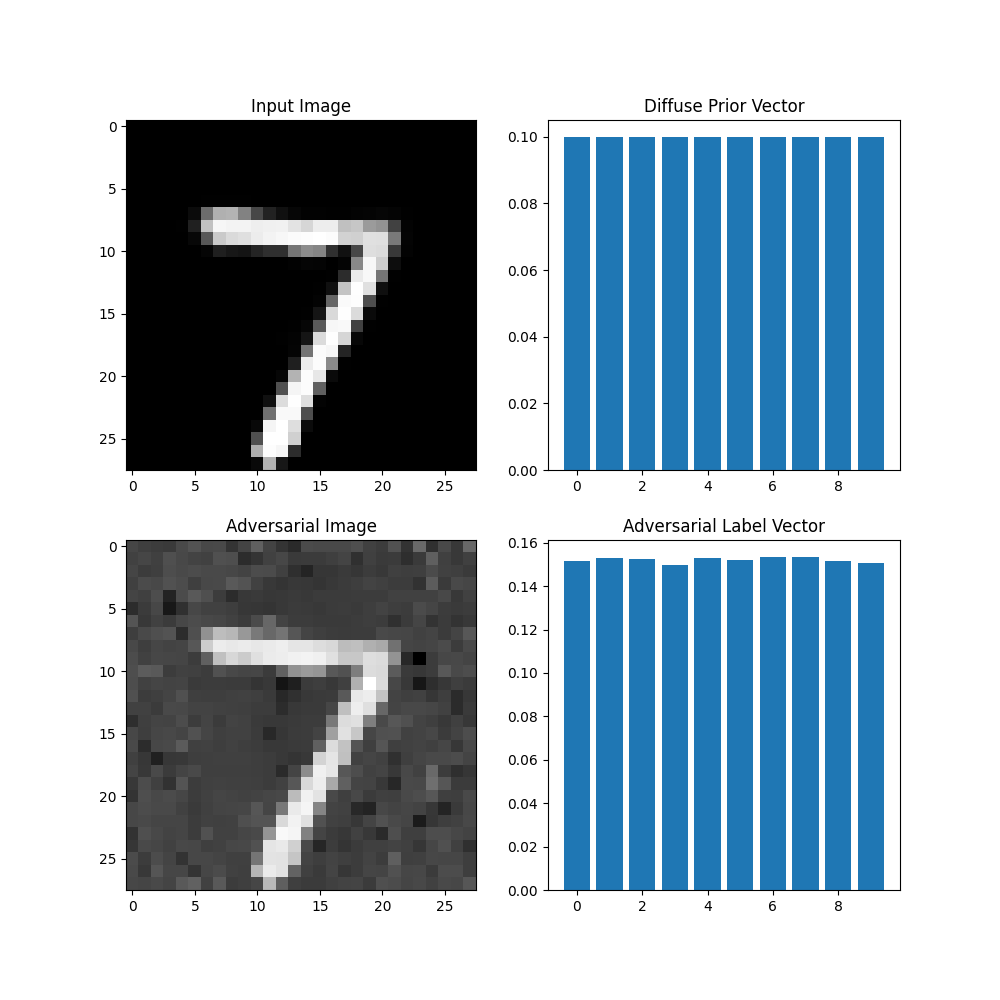
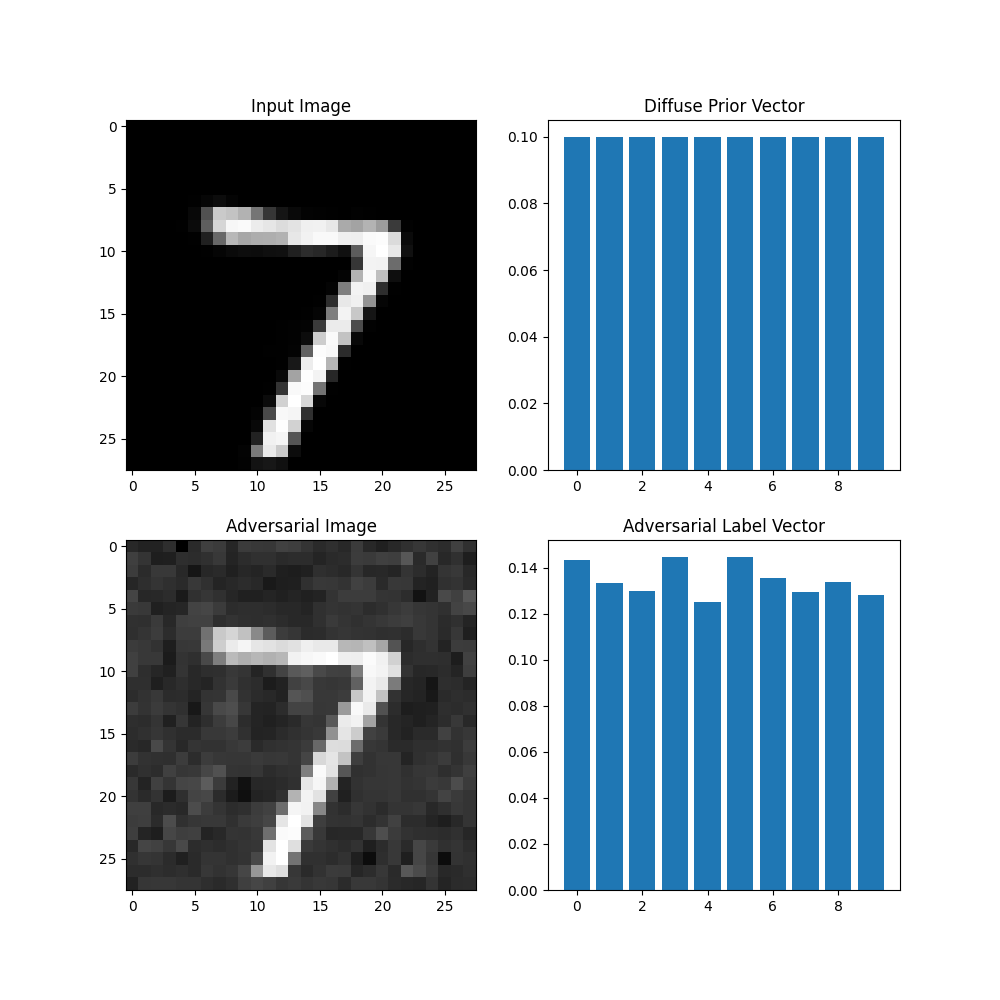
lambda 50 but 500 iterations

diff --git a/main.py b/main.py
@@ -195,7 +195,7 @@ input_adv.requires_grad_(True)  # making sure requires grad is TRUE
 
 # Params
 optimizer = optim.Adam([input_adv], lr=0.01)
-train_loops = 100
+train_loops = 500
 output = None  # will use this later
 
 for loop in range(train_loops):
@@ -208,7 +208,7 @@ for loop in range(train_loops):
     # Loss calc
     label_loss = nn.functional.kl_div(output_label_probs.log(), target_label)
     image_loss = nn.functional.mse_loss(output[:, :image_dim], original_image)
-    loss = label_loss * 500 + image_loss
+    loss = label_loss * 50 + image_loss
 
     # Prints the losses
     print(f"Adversarial Training Loop {loop + 1}/{train_loops}:")
